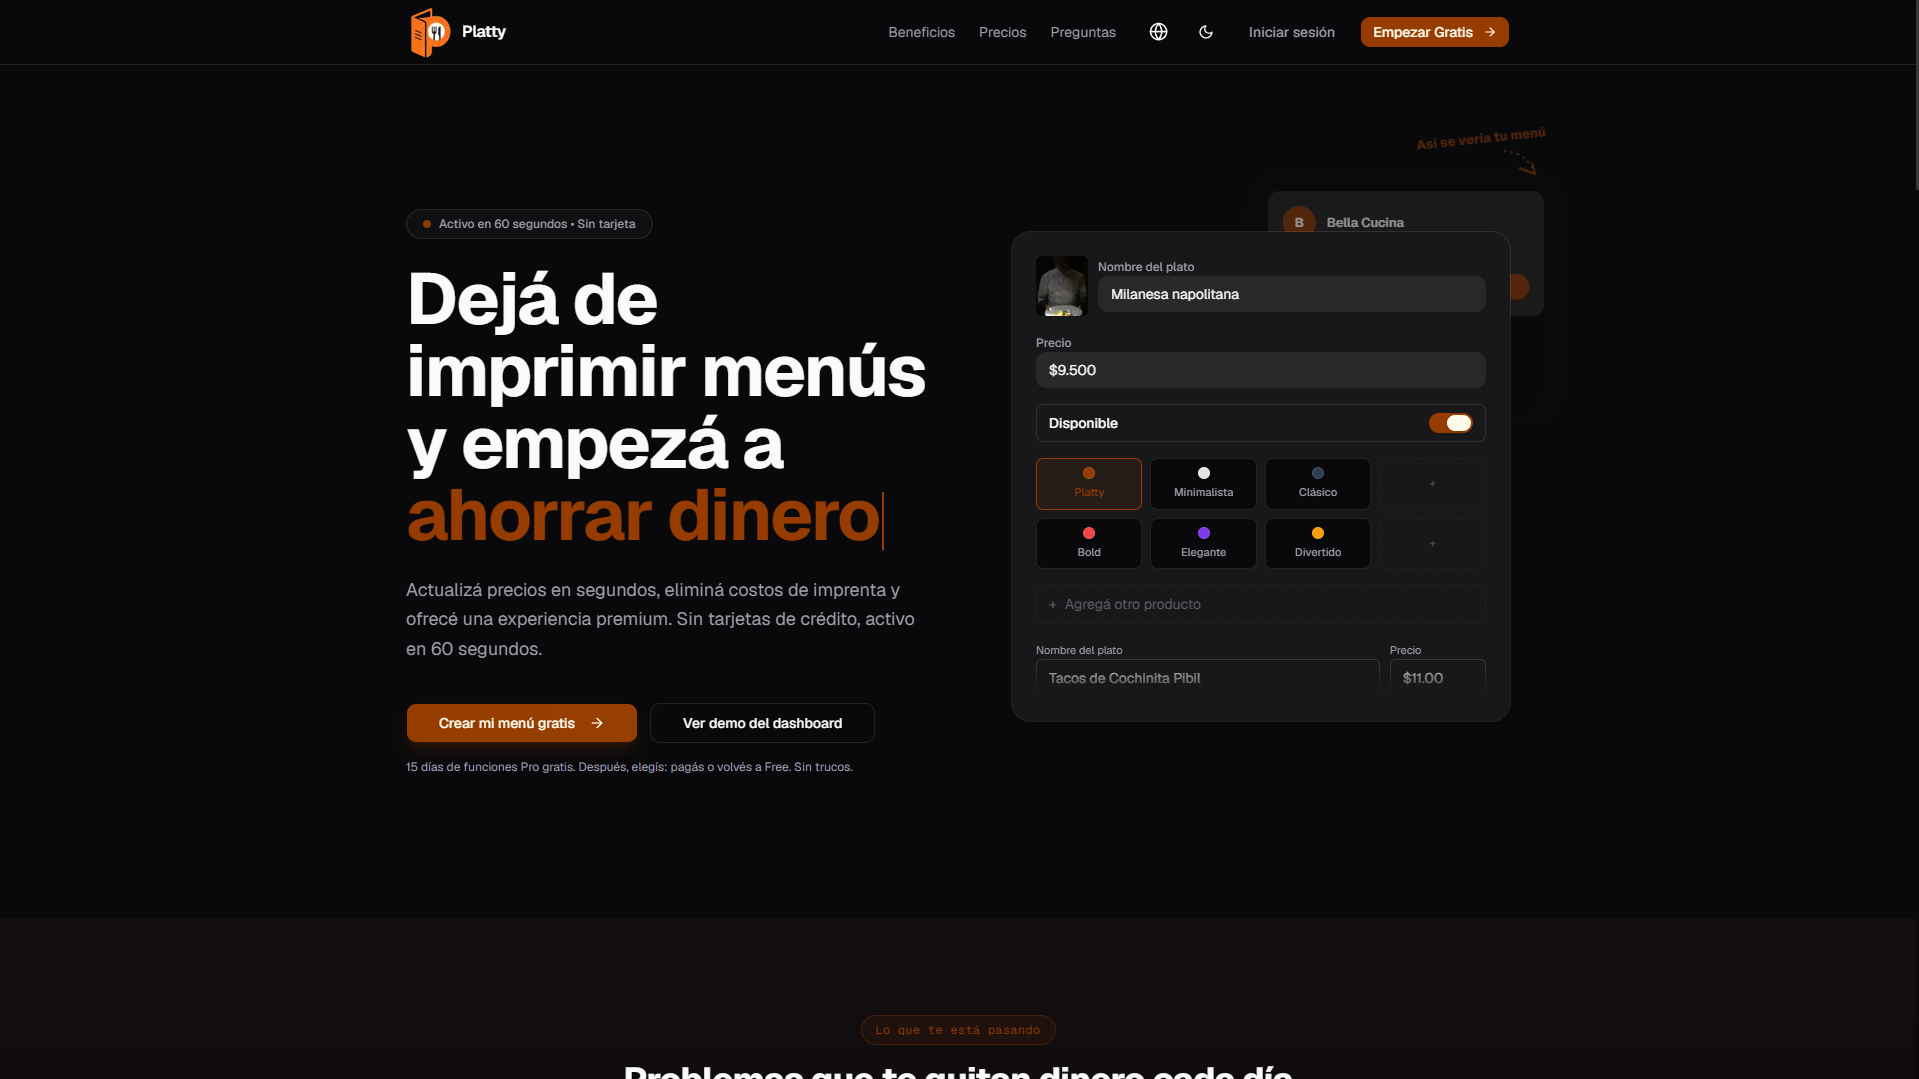
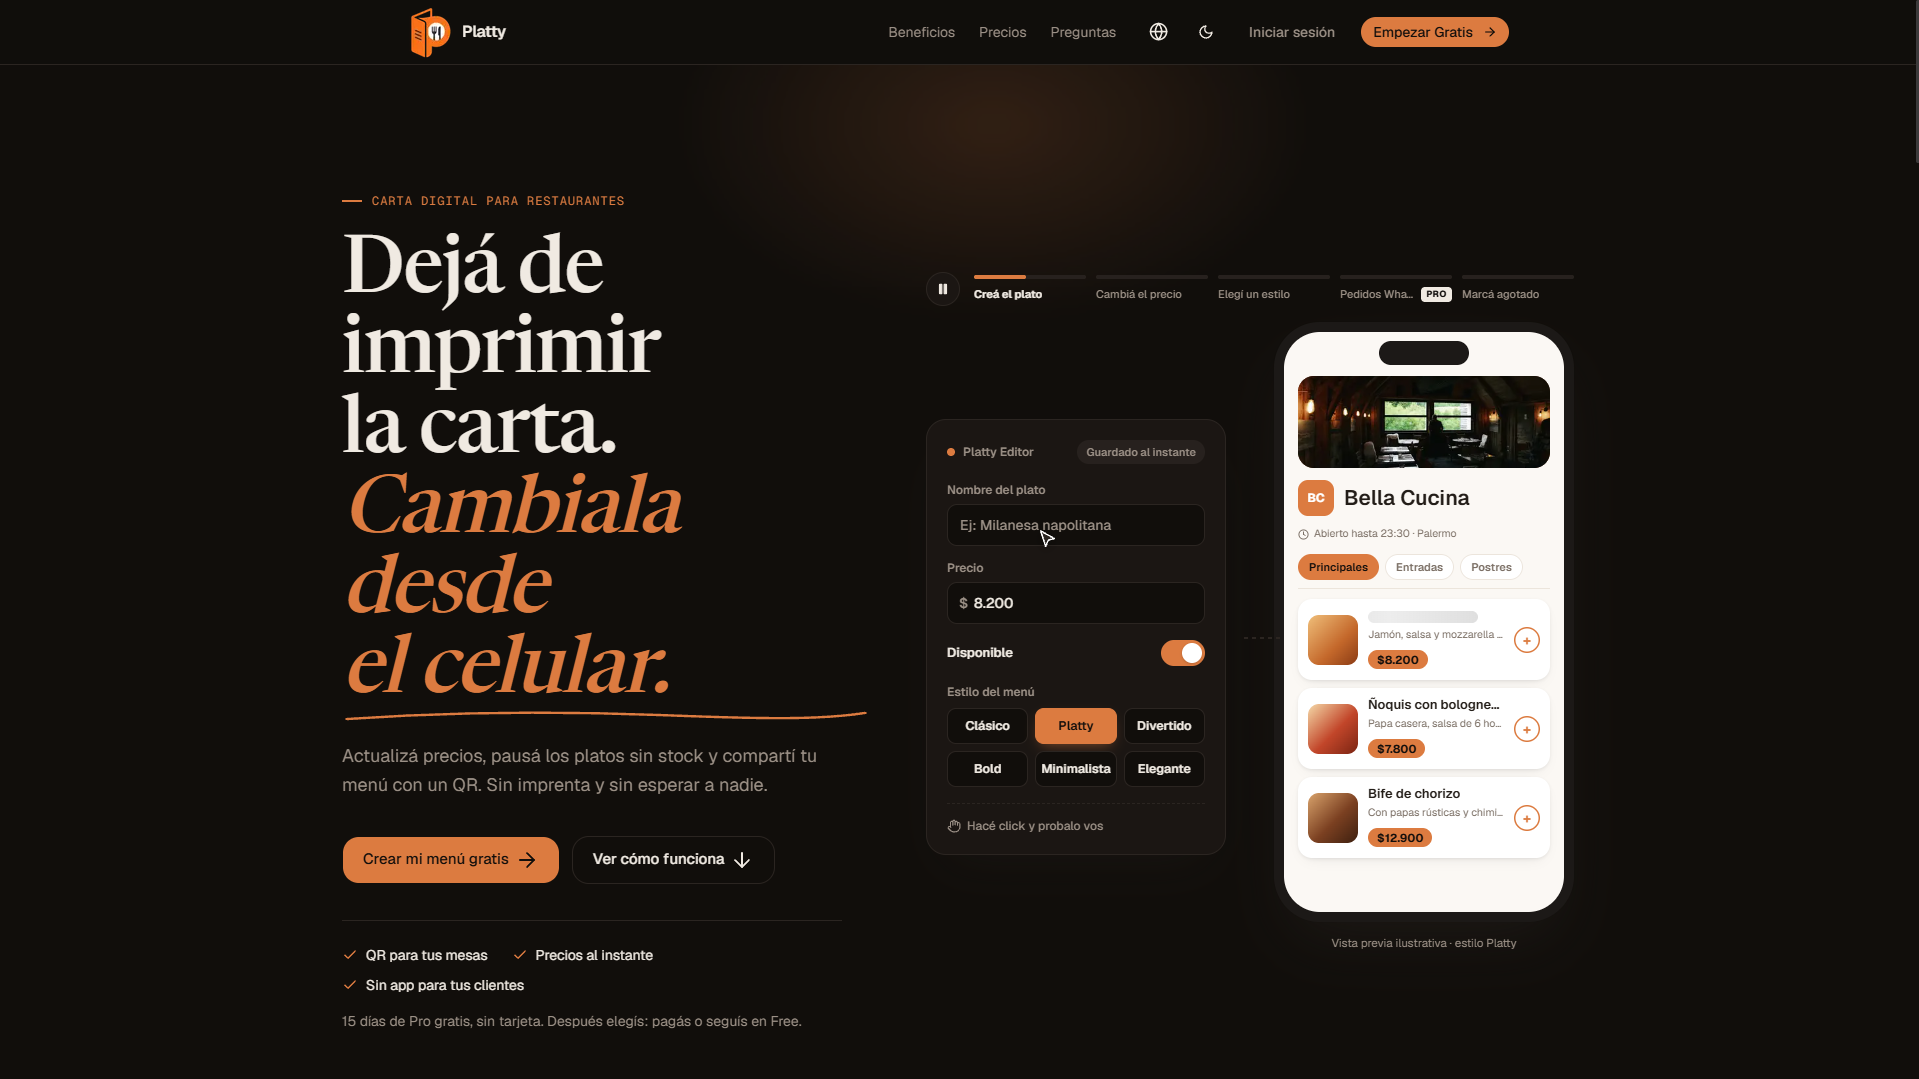
Platy image and URL update

diff --git a/components/portfolio/projects.tsx b/components/portfolio/projects.tsx
@@ -23,7 +23,7 @@ const projects = [
       "Vitest"
     ],
     github: null,
-    demo: "https://platty-app-production.up.railway.app/",
+    demo: "https://platty.com.ar/",
     image: "/projects/platty.png",
     features: [
       "Menú público accesible vía QR sin descargas, con regeneración instantánea por invalidación de caché (sin rebuilds).",
